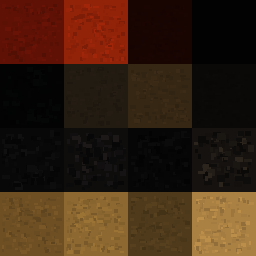
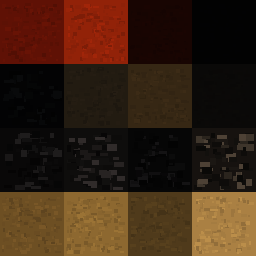
chore(project): adjust project: 4 project files
Modified: 4.
Text lines: +8 / -8; binary files: 1.
- Modify: "blender/weapons/pistol_sand_block_v1/Pistol_Sand_Block_V1.blend"
- Modify: "blender/weapons/pistol_sand_block_v1/Pistol_Sand_Block_V1.glb"
- Modify: "blender/weapons/pistol_sand_block_v1/build_pistol.py"
- Modify: "blender/weapons/pistol_sand_block_v1/pistol_sand_atlas_256.png" (binary)

diff --git a/blender/weapons/pistol_sand_block_v1/build_pistol.py b/blender/weapons/pistol_sand_block_v1/build_pistol.py
@@ -40,10 +40,10 @@ rng = random.Random(2026101907)
 graphite = {4:(53,51,51),5:(66,63,62),6:(43,42,43),7:(82,76,69),8:(29,30,32)}
 for tile,rgb in graphite.items():
     shades = [[1.0]*64 for _ in range(64)]
-    for _ in range(110):
-        x,y = rng.randrange(2,57),rng.randrange(2,57)
-        w,h = rng.choice([3,4,6,8]),rng.choice([3,4,5,7])
-        shade = rng.choice([.72,.84,.94,1.10,1.24,1.38])
+    for _ in range(72):
+        x,y = rng.randrange(2,55),rng.randrange(2,55)
+        w,h = rng.choice([4,6,8,10]),rng.choice([3,5,7])
+        shade = rng.choice([.68,.80,.92,1.12,1.38,1.65,1.82])
         for yy in range(y,min(62,y+h)):
             for xx in range(x,min(62,x+w)):
                 shades[yy][xx] = shade
